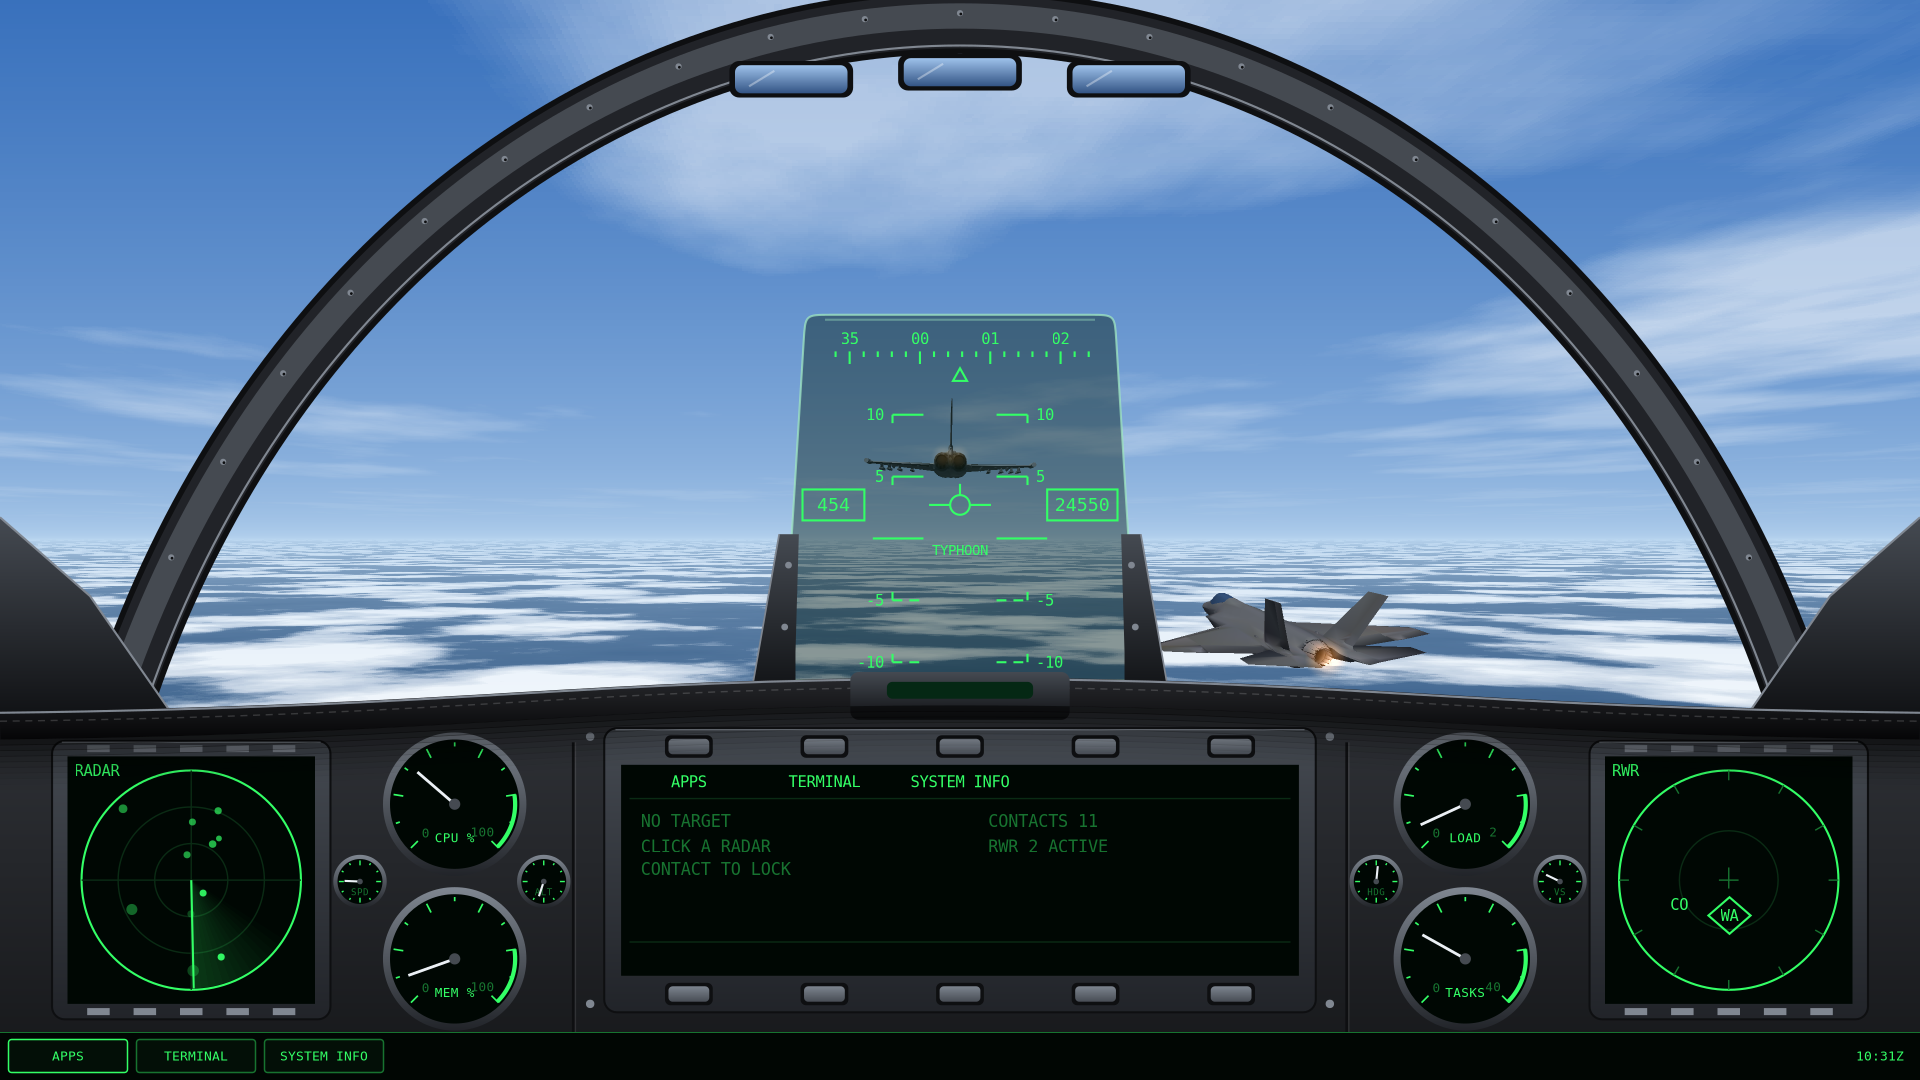
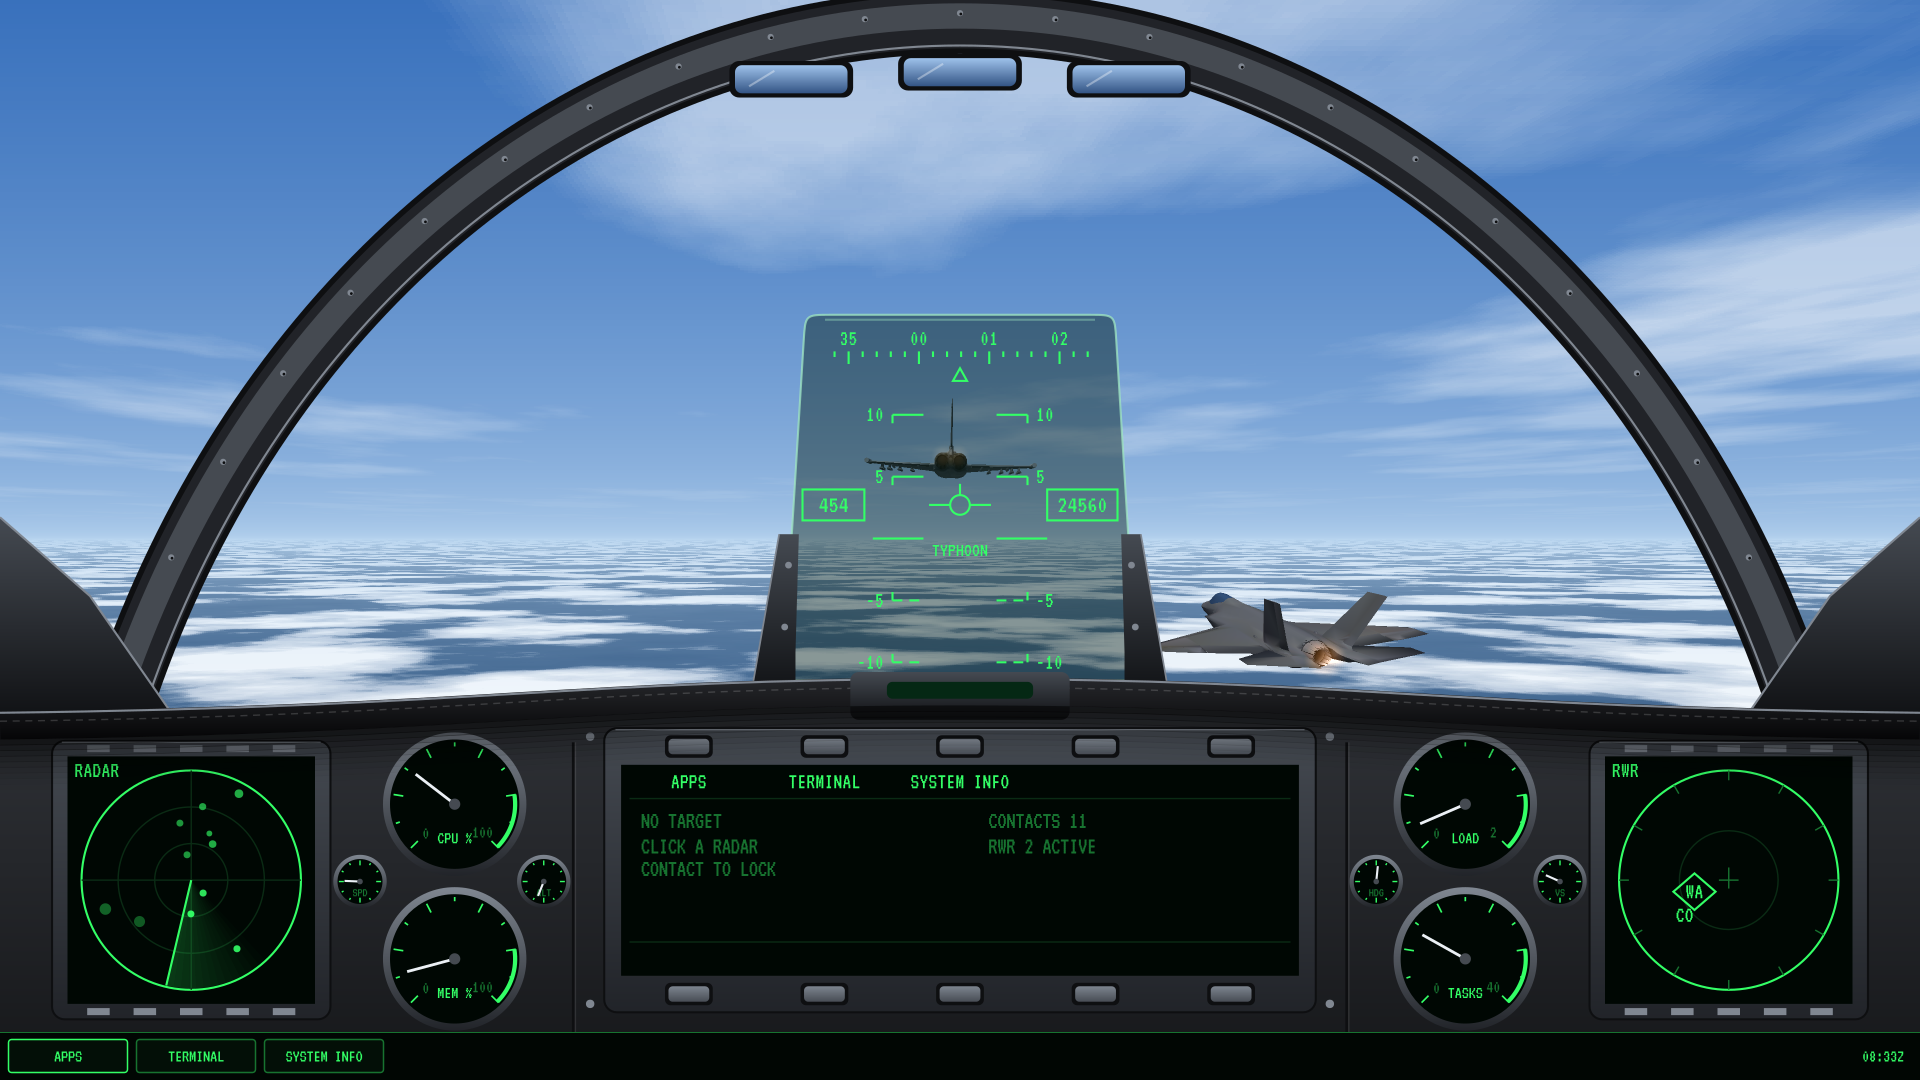
shell: VT323 pixel font everywhere
UI_FONT is now VT323. It draws about 25% shorter than DejaVu Sans Mono
at the same size, so theme.h gains FONT_SCALE (1.4) and FONT_SIZE(),
and every cairo_set_font_size() keeps its old number wrapped in
FONT_SIZE(): the sizes still read as before, and the next font change
is two lines in one file. VT323 has no bold, so System Info's title is
normal weight instead of a faked bold. The README screenshot and GIF
are re-recorded with the new font.

diff --git a/shell/wallpaper/scene.c b/shell/wallpaper/scene.c
@@ -308,7 +308,7 @@ static void draw_hud(cairo_t *cr, const struct layout *l,
 
 	cairo_set_source_rgb(cr, HUD_GREEN);
 	cairo_set_line_width(cr, HUD_LINE);
-	cairo_set_font_size(cr, 11);
+	cairo_set_font_size(cr, FONT_SIZE(11));
 
 	/* Pitch ladder: a rung every 5 degrees, measured from the horizon,
 	 * so it moves up and down with the real horizon outside. Above the
@@ -375,7 +375,7 @@ static void draw_hud(cairo_t *cr, const struct layout *l,
 
 	/* Speed on the left of the glass, altitude on the right. */
 	char value[16];
-	cairo_set_font_size(cr, 13);
+	cairo_set_font_size(cr, FONT_SIZE(13));
 	snprintf(value, sizeof(value), "%d", f->speed);
 	cairo_rectangle(cr, l->hud_x + 14, l->aim_y - 11, 44, 22);
 	cairo_stroke(cr);
@@ -387,7 +387,7 @@ static void draw_hud(cairo_t *cr, const struct layout *l,
 
 	/* The aircraft you are following, as a HUD would tag it: its name
 	 * just below it, in the gap down the middle of the pitch ladder. */
-	cairo_set_font_size(cr, 10);
+	cairo_set_font_size(cr, FONT_SIZE(10));
 	text_centred(cr, "TYPHOON", l->cx, l->aim_y + 32);
 
 	cairo_restore(cr);
@@ -476,7 +476,7 @@ static int draw_rwr(struct scene *scene, cairo_t *cr, const struct layout *l) {
 	const struct process *worst = NULL;
 	int threats = 0;
 
-	cairo_set_font_size(cr, 11);
+	cairo_set_font_size(cr, FONT_SIZE(11));
 	for (int i = 0; i < scene->processes.count; i++) {
 		const struct process *process = &scene->processes.items[i];
 		if (process->cpu_percent < 0.5) {
@@ -546,7 +546,7 @@ static void draw_data_display(struct scene *scene, cairo_t *cr,
 	double x = l->data_x + 14, y = l->data_y + 40;
 	double right = l->data_x + l->data_w / 2 + 20;
 	char row[48];
-	cairo_set_font_size(cr, 12);
+	cairo_set_font_size(cr, FONT_SIZE(12));
 
 	/* Left half: the target. */
 	if (target != NULL) {
@@ -622,7 +622,7 @@ static void draw_key(cairo_t *cr, const struct layout *l, int slot, bool lit) {
 	/* The name. Lit, it is shown inverted in a box, which is how a real
 	 * display marks the option that is selected. */
 	double half = legend_width(l) / 2;
-	cairo_set_font_size(cr, 11);
+	cairo_set_font_size(cr, FONT_SIZE(11));
 	if (lit) {
 		cairo_rectangle(cr, lx - half, ly - LEGEND_HEIGHT / 2.0,
 			2 * half, LEGEND_HEIGHT);
@@ -726,7 +726,7 @@ static void draw_dial_face(cairo_t *cr, const struct dial *dial,
 	cairo_set_line_width(cr, 3);
 	cairo_stroke(cr);
 
-	cairo_set_font_size(cr, 9);
+	cairo_set_font_size(cr, FONT_SIZE(9));
 	cairo_set_source_rgb(cr, HUD_DIM);
 	double tx, ty;
 	polar(x, y, dial_bearing(0), DIAL_RADIUS - 17, &tx, &ty);
@@ -812,7 +812,7 @@ static void draw_gauge_face(cairo_t *cr, const char *name, double x, double y) {
 		polar(x, y, hour * 30, GAUGE_RADIUS - 1, &x2, &y2);
 		line(cr, x1, y1, x2, y2);
 	}
-	cairo_set_font_size(cr, 6.5);
+	cairo_set_font_size(cr, FONT_SIZE(6.5));
 	cairo_set_source_rgb(cr, HUD_DIM);
 	text_centred(cr, name, x, y + GAUGE_RADIUS * 0.48);
 }
@@ -916,7 +916,7 @@ static void draw_screen(cairo_t *cr, const char *title, double cx, double cy,
 	}
 
 	/* The screen's name in its top-left corner. */
-	cairo_set_font_size(cr, 11);
+	cairo_set_font_size(cr, FONT_SIZE(11));
 	cairo_set_source_rgb(cr, HUD_GREEN);
 	draw_text(cr, title, cx - half + 5, cy - half + 10);
 }

diff --git a/shell/common/theme.h b/shell/common/theme.h
@@ -18,8 +18,18 @@
 #define HUD_PANEL  0.015, 0.06, 0.03  /* panel backgrounds */
 #define HUD_BLACK  0.005, 0.025, 0.012 /* the darkest background */
 
-/* The font every PerkinsOS client draws with (the dejavu package). */
-#define UI_FONT "DejaVu Sans Mono"
+/* The font every PerkinsOS client draws with: VT323, a pixel font in the
+ * style of an old computer terminal (/usr/share/fonts/vt323). It has no
+ * bold, so ask for CAIRO_FONT_WEIGHT_NORMAL only: "bold" would be faked by
+ * smudging the letters. */
+#define UI_FONT "VT323"
+
+/* Font sizes in the code are written as they looked in DejaVu Sans Mono,
+ * the font before VT323: cairo_set_font_size(cr, FONT_SIZE(13)). VT323
+ * draws about 25% shorter at the same size, so every size is scaled up
+ * here, in one place. Changing the font means changing these two lines. */
+#define FONT_SCALE 1.4
+#define FONT_SIZE(size) ((size) * FONT_SCALE)
 
 /* Thickness of HUD lines, in pixels. */
 #define HUD_LINE 1.5

diff --git a/shell/sysinfo/main.c b/shell/sysinfo/main.c
@@ -100,8 +100,8 @@ static void draw(struct sysinfo *app) {
 	cairo_fill(cr);
 
 	cairo_select_font_face(cr, UI_FONT, CAIRO_FONT_SLANT_NORMAL,
-		CAIRO_FONT_WEIGHT_BOLD);
-	cairo_set_font_size(cr, 13);
+		CAIRO_FONT_WEIGHT_NORMAL);
+	cairo_set_font_size(cr, FONT_SIZE(13));
 	cairo_set_source_rgb(cr, HUD_GREEN);
 	draw_text(cr, "SYSTEM INFO", 12, TITLE_HEIGHT / 2.0);
 

diff --git a/shell/launcher/main.c b/shell/launcher/main.c
@@ -118,7 +118,7 @@ static void draw(struct launcher *launcher) {
 
 	cairo_select_font_face(cr, UI_FONT, CAIRO_FONT_SLANT_NORMAL,
 		CAIRO_FONT_WEIGHT_NORMAL);
-	cairo_set_font_size(cr, 14);
+	cairo_set_font_size(cr, FONT_SIZE(14));
 
 	/* Search box: the query followed by a cursor bar. */
 	int x = PADDING, y = PADDING, w = WIDTH - 2 * PADDING;

diff --git a/shell/dock/main.c b/shell/dock/main.c
@@ -108,7 +108,7 @@ static void draw(struct dock *dock) {
 
 	cairo_select_font_face(cr, UI_FONT, CAIRO_FONT_SLANT_NORMAL,
 		CAIRO_FONT_WEIGHT_NORMAL);
-	cairo_set_font_size(cr, 13);
+	cairo_set_font_size(cr, FONT_SIZE(13));
 	cairo_set_line_width(cr, HUD_LINE);
 
 	/* Buttons: an outline with the label inside, like the soft keys round
